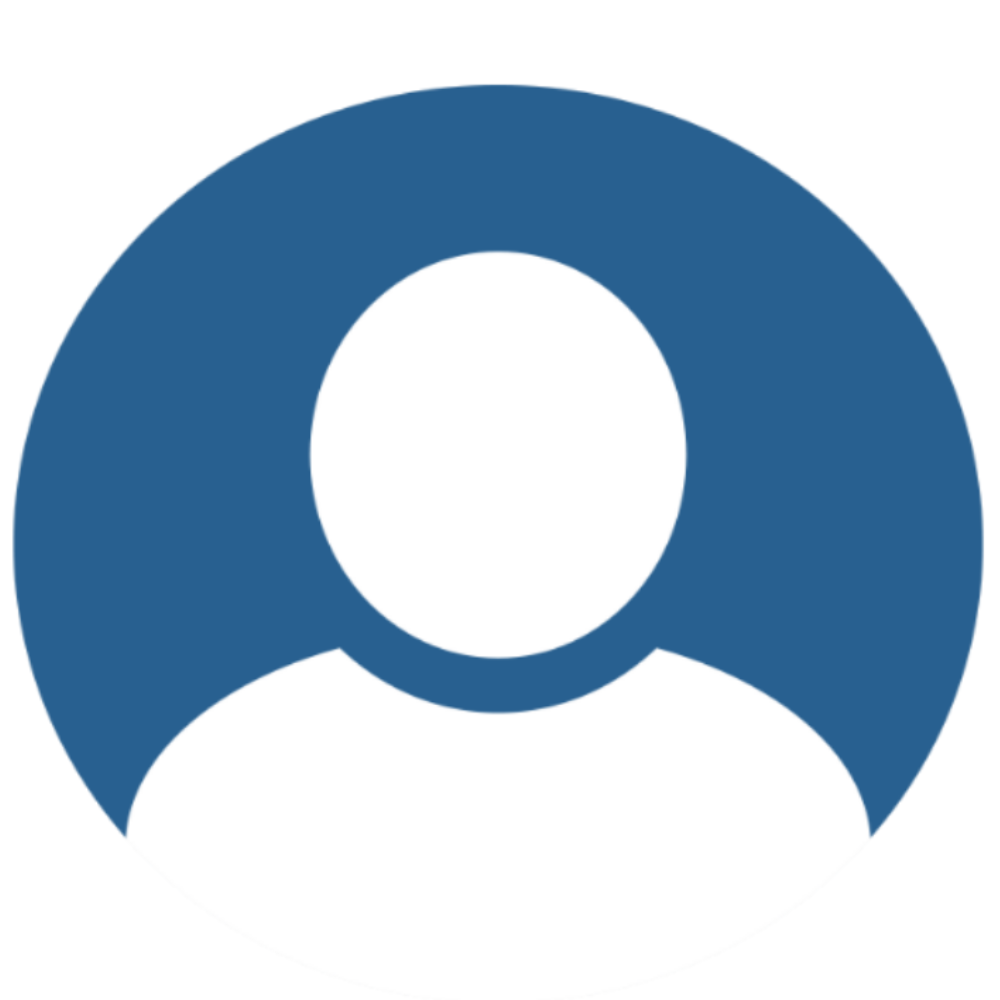
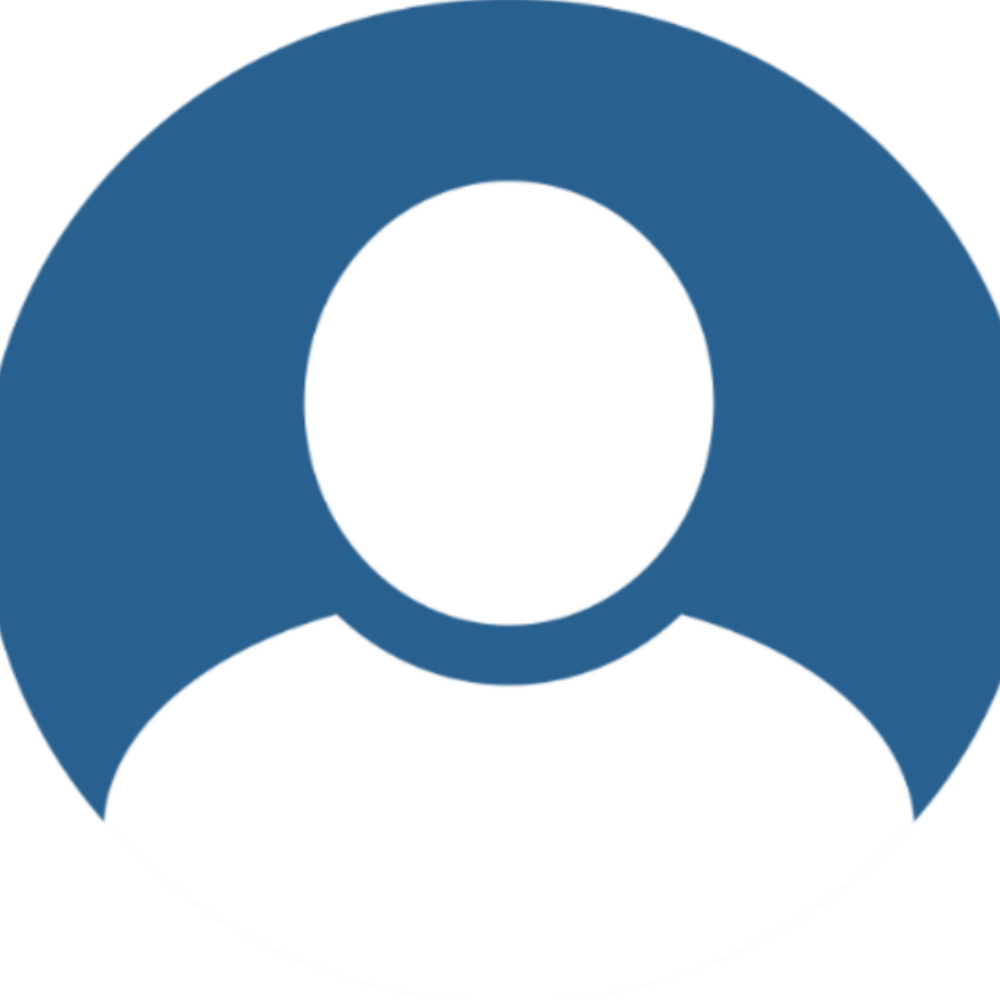
add upload new profile pic

Changed region(s): [[0.0, 0.0, 1.0, 0.837]]

diff --git a/src/react-components/Profile/index.js b/src/react-components/Profile/index.js
@@ -3,10 +3,13 @@ import { withRouter } from "react-router";
 
 import "./styles.css";
 import 'antd/dist/antd.css';
-import { Card } from "antd";
+import { Card, Upload } from "antd";
+import ImgCrop from 'antd-img-crop';
 
 import Header from '../Header';
 import NavBar from '../NavBar';
+import uploadPlusImage from './static/opaque-upload-profile.png';
+import editProfileImagePencil from './static/pencil-edit-icon.png';
 
 import { getUserProfileImageUrl, getUserType, getUserProfileInfo, getDoctorbyID, getInstitutionInfo } from '../../actions/app';
 import { UserType } from '../../constants/userType';
@@ -55,7 +58,13 @@ class Profile extends React.Component {
                 <Header appComponent={this.props.appComponent}/>
                 <NavBar />
                 <div className="profilePageContent">
-                    <img alt="bigProfileImageforLoggedInUser" className="bigUserProfileImage" src={this.getUserProfileImage()}/>
+                    <ImgCrop rotate grid shape='round'>
+                        <Upload showUploadList={false}>
+                            <img alt="bigProfileImageforLoggedInUser" className="bigUserProfileImage" src={this.getUserProfileImage()}/>
+                            <img alt="uploadImageOverlay" className="uploadProfileImageOverlay" src={uploadPlusImage} />
+                            <img alt="editProfileImagePencil" className="editProfileImagePencil" src={editProfileImagePencil} />
+                        </Upload>
+                    </ImgCrop>
                     <h1 className="loggedInUserProfileName">
                         {this.state.userType === UserType.doctor && "Dr. "}
                         {this.firstName + " " + this.lastName}
@@ -83,8 +92,8 @@ class Profile extends React.Component {
                             <h3>{this.institutionInfo.name}</h3>
                             <ul>
                                 <li><h5>Address:</h5><span>{this.institutionInfo.address}</span></li>
-                                <li><h5>Postal Code:</h5><span>{this.institutionInfo.address}</span></li>
-                                <li><h5>Phone Number:</h5><span>{this.institutionInfo.address}</span></li>
+                                <li><h5>Postal Code:</h5><span>{this.institutionInfo.postalCode}</span></li>
+                                <li><h5>Phone Number:</h5><span>{this.institutionInfo.phoneNumber}</span></li>
                             </ul>
                         </Card>
                     }

diff --git a/src/react-components/Profile/styles.css b/src/react-components/Profile/styles.css
@@ -1,7 +1,31 @@
-.profilePage {
-    /* margin-top: 10px; */
-    /* margin-left: 280px; */
-    /* width: 100%; */
+.bigUserProfileImage {
+    border-radius: 50%;
+    border: 4px solid black;
+    width: 200px;
+}
+
+.uploadProfileImageOverlay {
+    opacity: 0;
+    width: 200px;
+    position: absolute;
+    top: 60px;
+    left: 280px;
+}
+
+.profilePage .ant-upload:hover .uploadProfileImageOverlay {
+    border-radius: 50%;
+    opacity: 1;
+}
+
+.profilePage .ant-upload:hover .bigUserProfileImage {
+    opacity: 0.3;
+}
+
+.editProfileImagePencil {
+    position: absolute;
+    width: 80px;
+    top: 250px;
+    left: 400px;
 }
 
 .loggedInUserProfileName {
@@ -14,7 +38,6 @@
 .profilePageContent {
     margin-top: 40px;
     margin-left: 280px;
-    /* width: 100%; */
 }
 
 .profilePageContent ul {
@@ -37,14 +60,6 @@
     display: -webkit-flex;
 	display: flex;
 	align-items: center;
-}
-
-.bigUserProfileImage {
-    border-radius: 50%;
-    border: 4px solid black;
-    width: 200px;
-    /* margin-top: 80px;
-    margin-left: 280px; */
 }
 
 .profileInfoCard {
